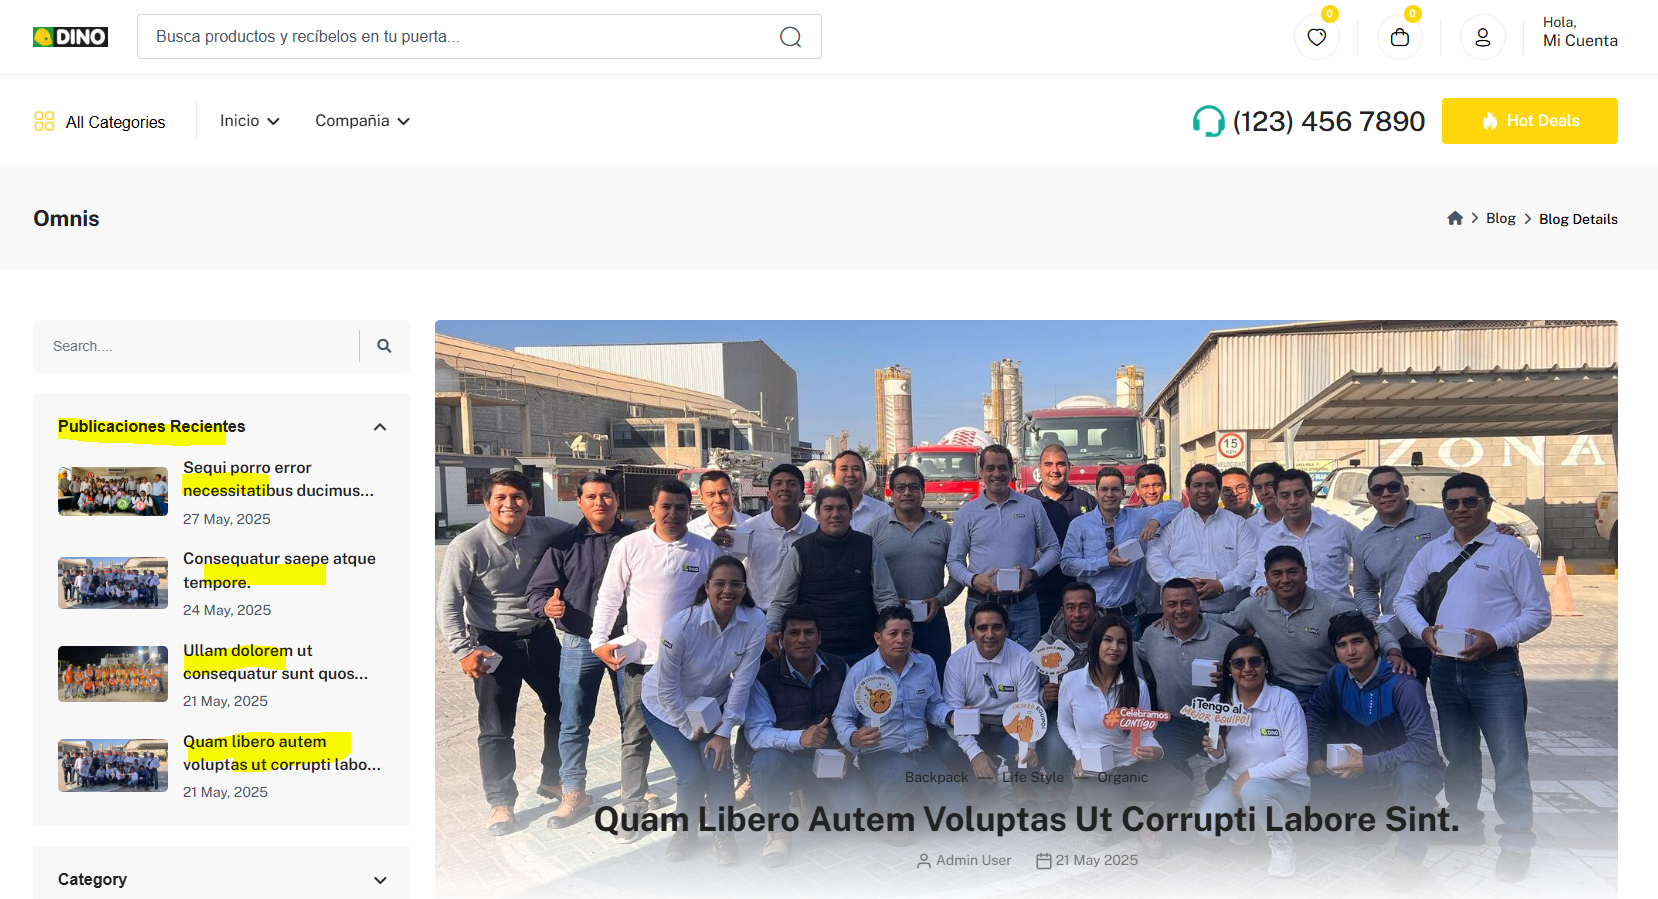
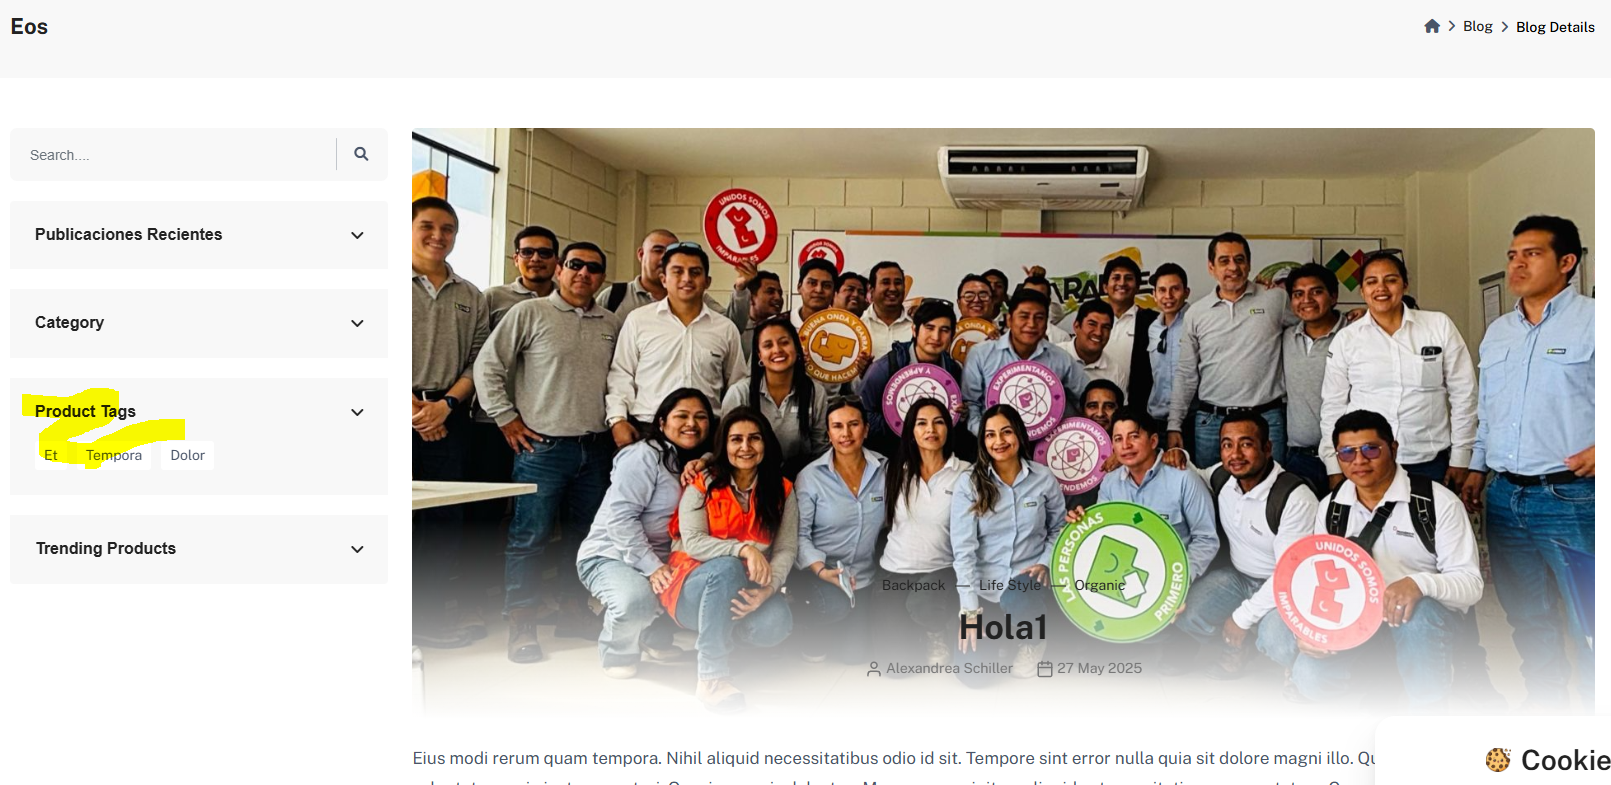
Se agrega al proyecto los tags y la evidencia correspondiente

diff --git a/resources/views/blog/view.blade.php b/resources/views/blog/view.blade.php
@@ -54,27 +54,25 @@
                                 <div id="panelsStayOpen-collapseOne" class="accordion-collapse collapse show">
                                     <div class="accordion-body pt-0">
                                         <div class="recent-post-box">
-                                            @foreach ($latestPosts as $index => $post)
+                                            @foreach ($latestPosts as $latestPost)
                                                 <div class="recent-box">
-                                                    <!-- Imagen dinámica -->
-                                                    <a href="{{ route('posts.show', ['id' => $post->id, 'slug' => $post->slug]) }}"
+                                                    <a href="{{ route('posts.show', ['id' => $latestPost->id, 'slug' => $latestPost->slug]) }}"
                                                         class="recent-image">
-                                                        <img src="{{ asset('storage/' . $post->featured_image) }}"
-                                                            class="img-fluid blur-up lazyload" alt="{{ $post->title }}">
+                                                        <img src="{{ asset('storage/' . $latestPost->featured_image) }}"
+                                                            class="img-fluid blur-up lazyload"
+                                                            alt="{{ $latestPost->title }}">
                                                     </a>
 
                                                     <div class="recent-detail">
-                                                        <!-- Título dinámico -->
                                                         <a
-                                                            href="{{ route('posts.show', ['id' => $post->id, 'slug' => $post->slug]) }}">
-                                                            <h5 class="recent-name">{{ $post->title }}</h5>
+                                                            href="{{ route('posts.show', ['id' => $latestPost->id, 'slug' => $latestPost->slug]) }}">
+                                                            <h5 class="recent-name">{{ $latestPost->title }}</h5>
                                                         </a>
-
-                                                        <!-- Fecha de publicación -->
-                                                        <h6>{{ $post->published_at->translatedFormat('d M, Y') }}</h6>
+                                                        <h6>{{ $latestPost->published_at->translatedFormat('d M, Y') }}</h6>
                                                     </div>
                                                 </div>
                                             @endforeach
+
                                         </div>
                                     </div>
                                 </div>
@@ -161,38 +159,11 @@
                                     <div class="accordion-body pt-0">
                                         <div class="product-tags-box">
                                             <ul>
-
-                                                <li>
-                                                    <a href="javascript:void(0)">Fruit Cutting</a>
-                                                </li>
-
-                                                <li>
-                                                    <a href="javascript:void(0)">Meat</a>
-                                                </li>
-
-                                                <li>
-                                                    <a href="javascript:void(0)">organic</a>
-                                                </li>
-
-                                                <li>
-                                                    <a href="javascript:void(0)">cake</a>
-                                                </li>
-
-                                                <li>
-                                                    <a href="javascript:void(0)">pick fruit</a>
-                                                </li>
-
-                                                <li>
-                                                    <a href="javascript:void(0)">backery</a>
-                                                </li>
-
-                                                <li>
-                                                    <a href="javascript:void(0)">organix food</a>
-                                                </li>
-
-                                                <li>
-                                                    <a href="javascript:void(0)">Most Expensive Fruit</a>
-                                                </li>
+                                                @foreach ($post->tags as $tag)
+                                                    <li>
+                                                        <a href="javascript:void(0)">{{ $tag->name }}</a>
+                                                    </li>
+                                                @endforeach
                                             </ul>
                                         </div>
                                     </div>
